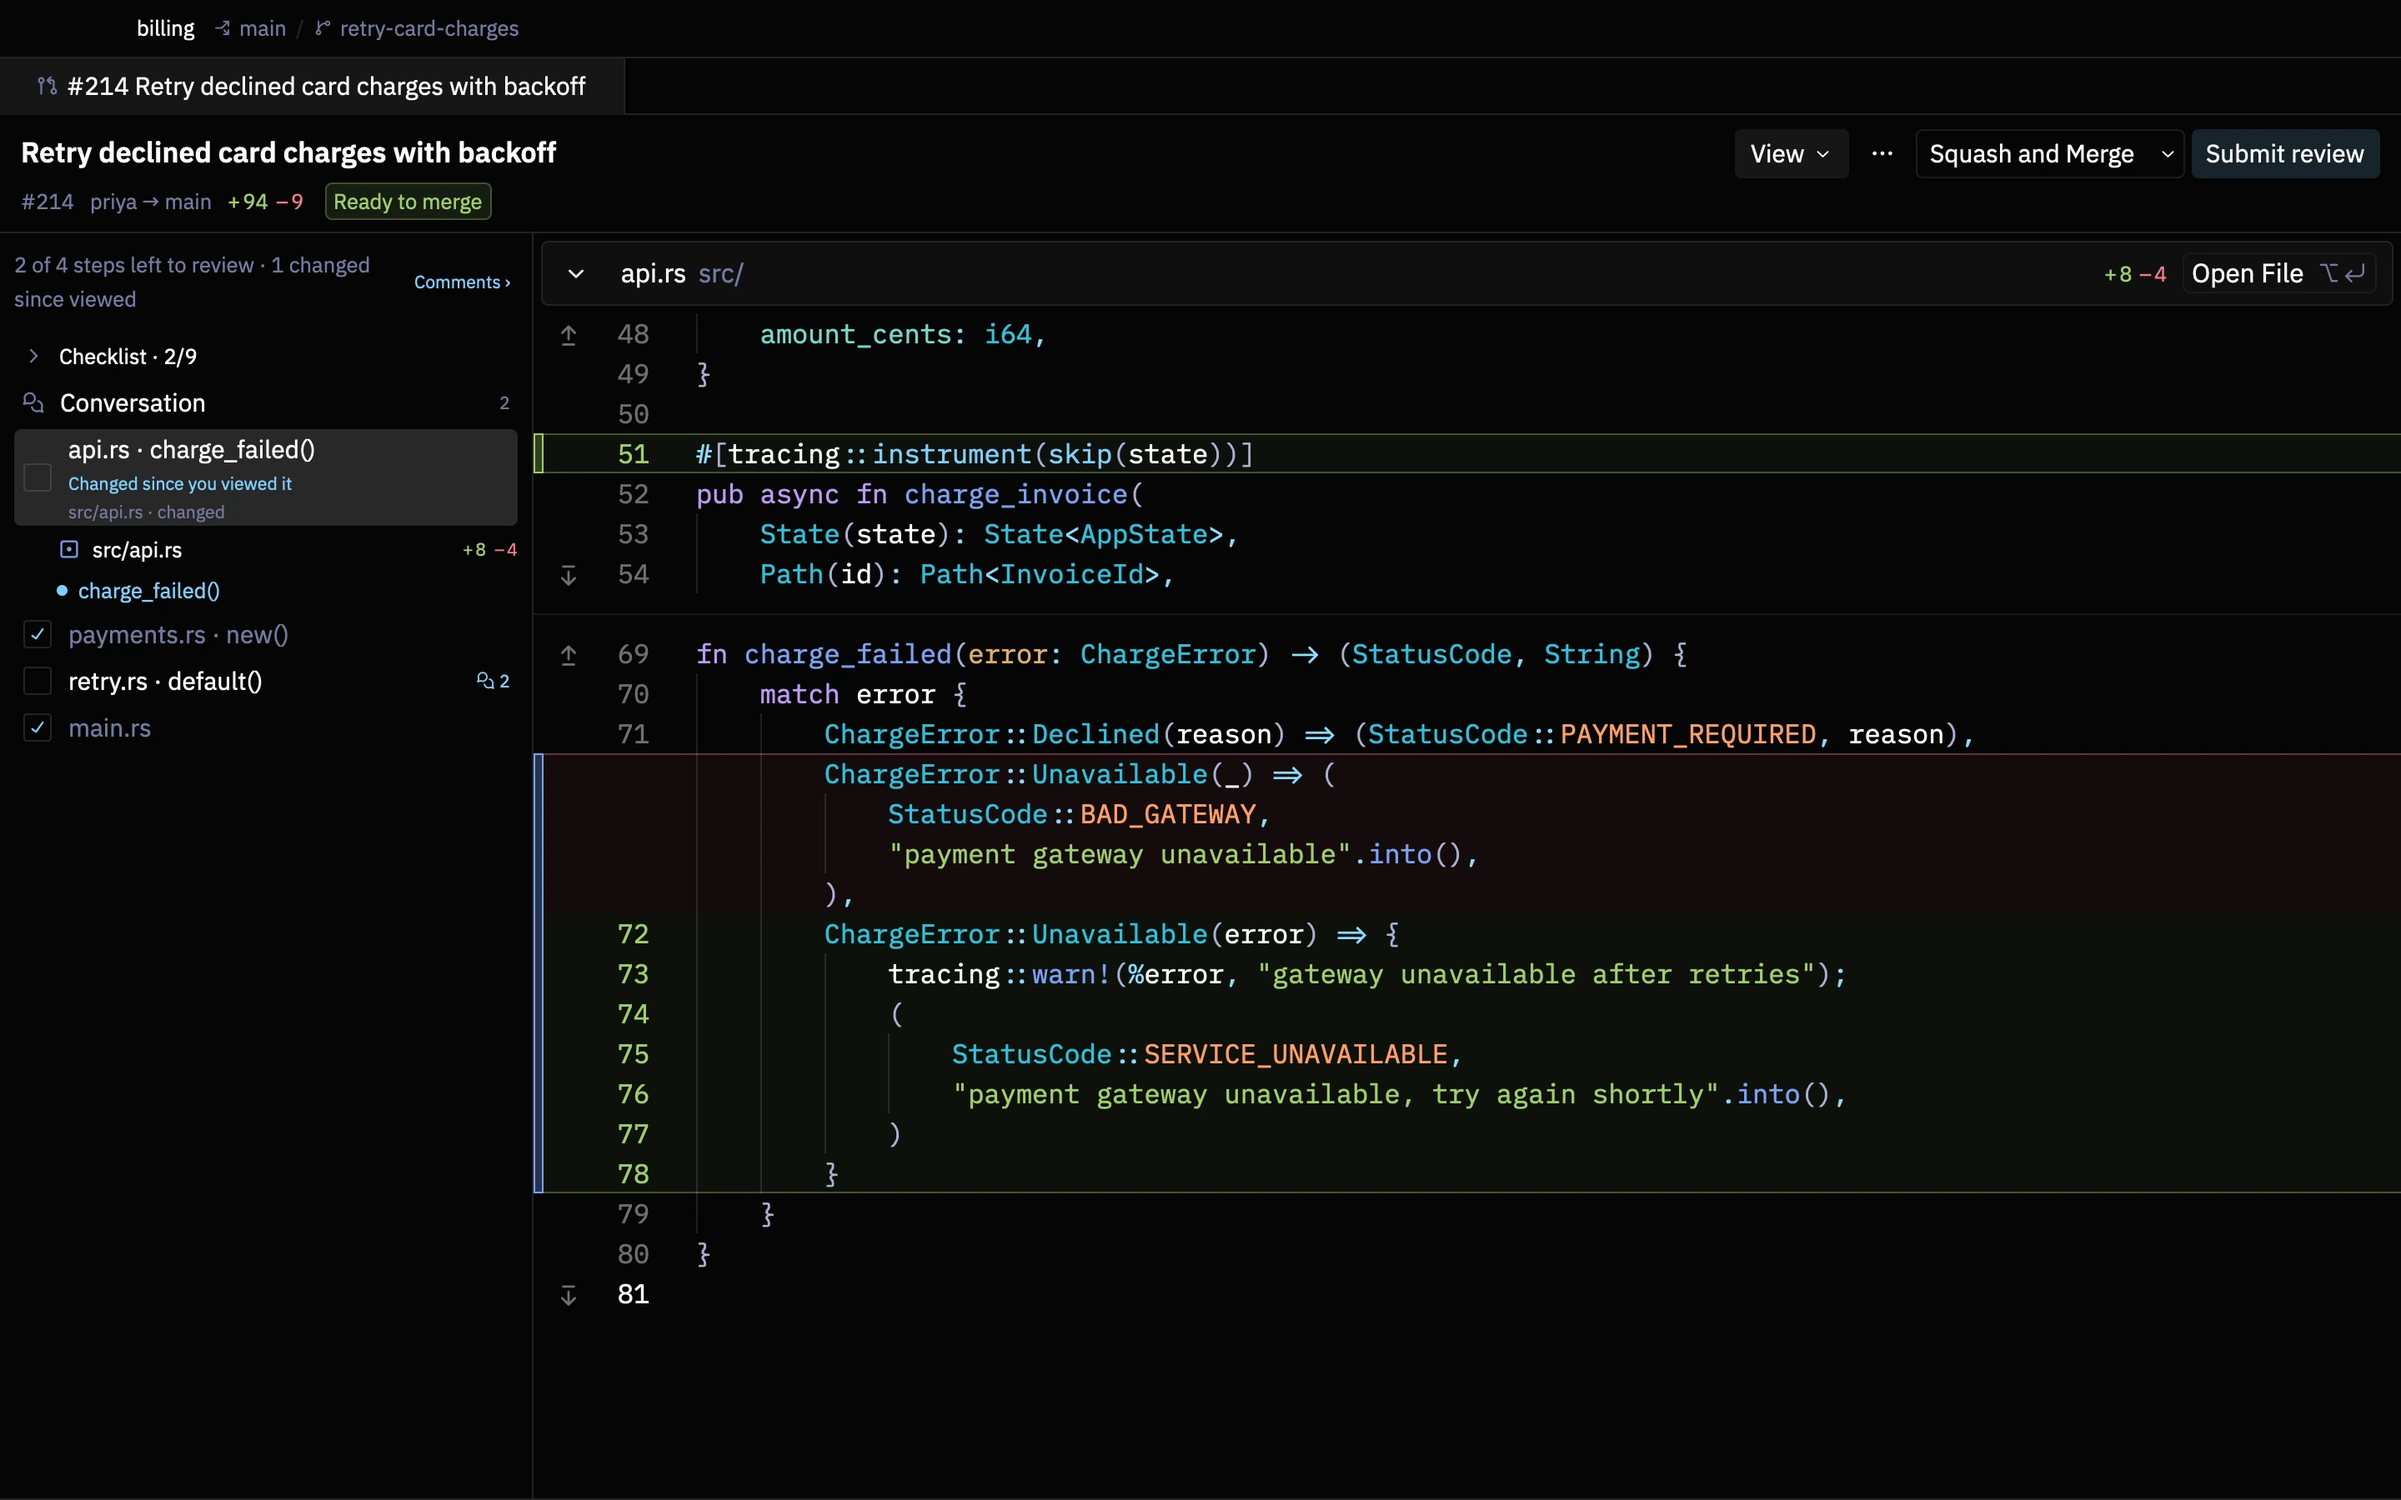
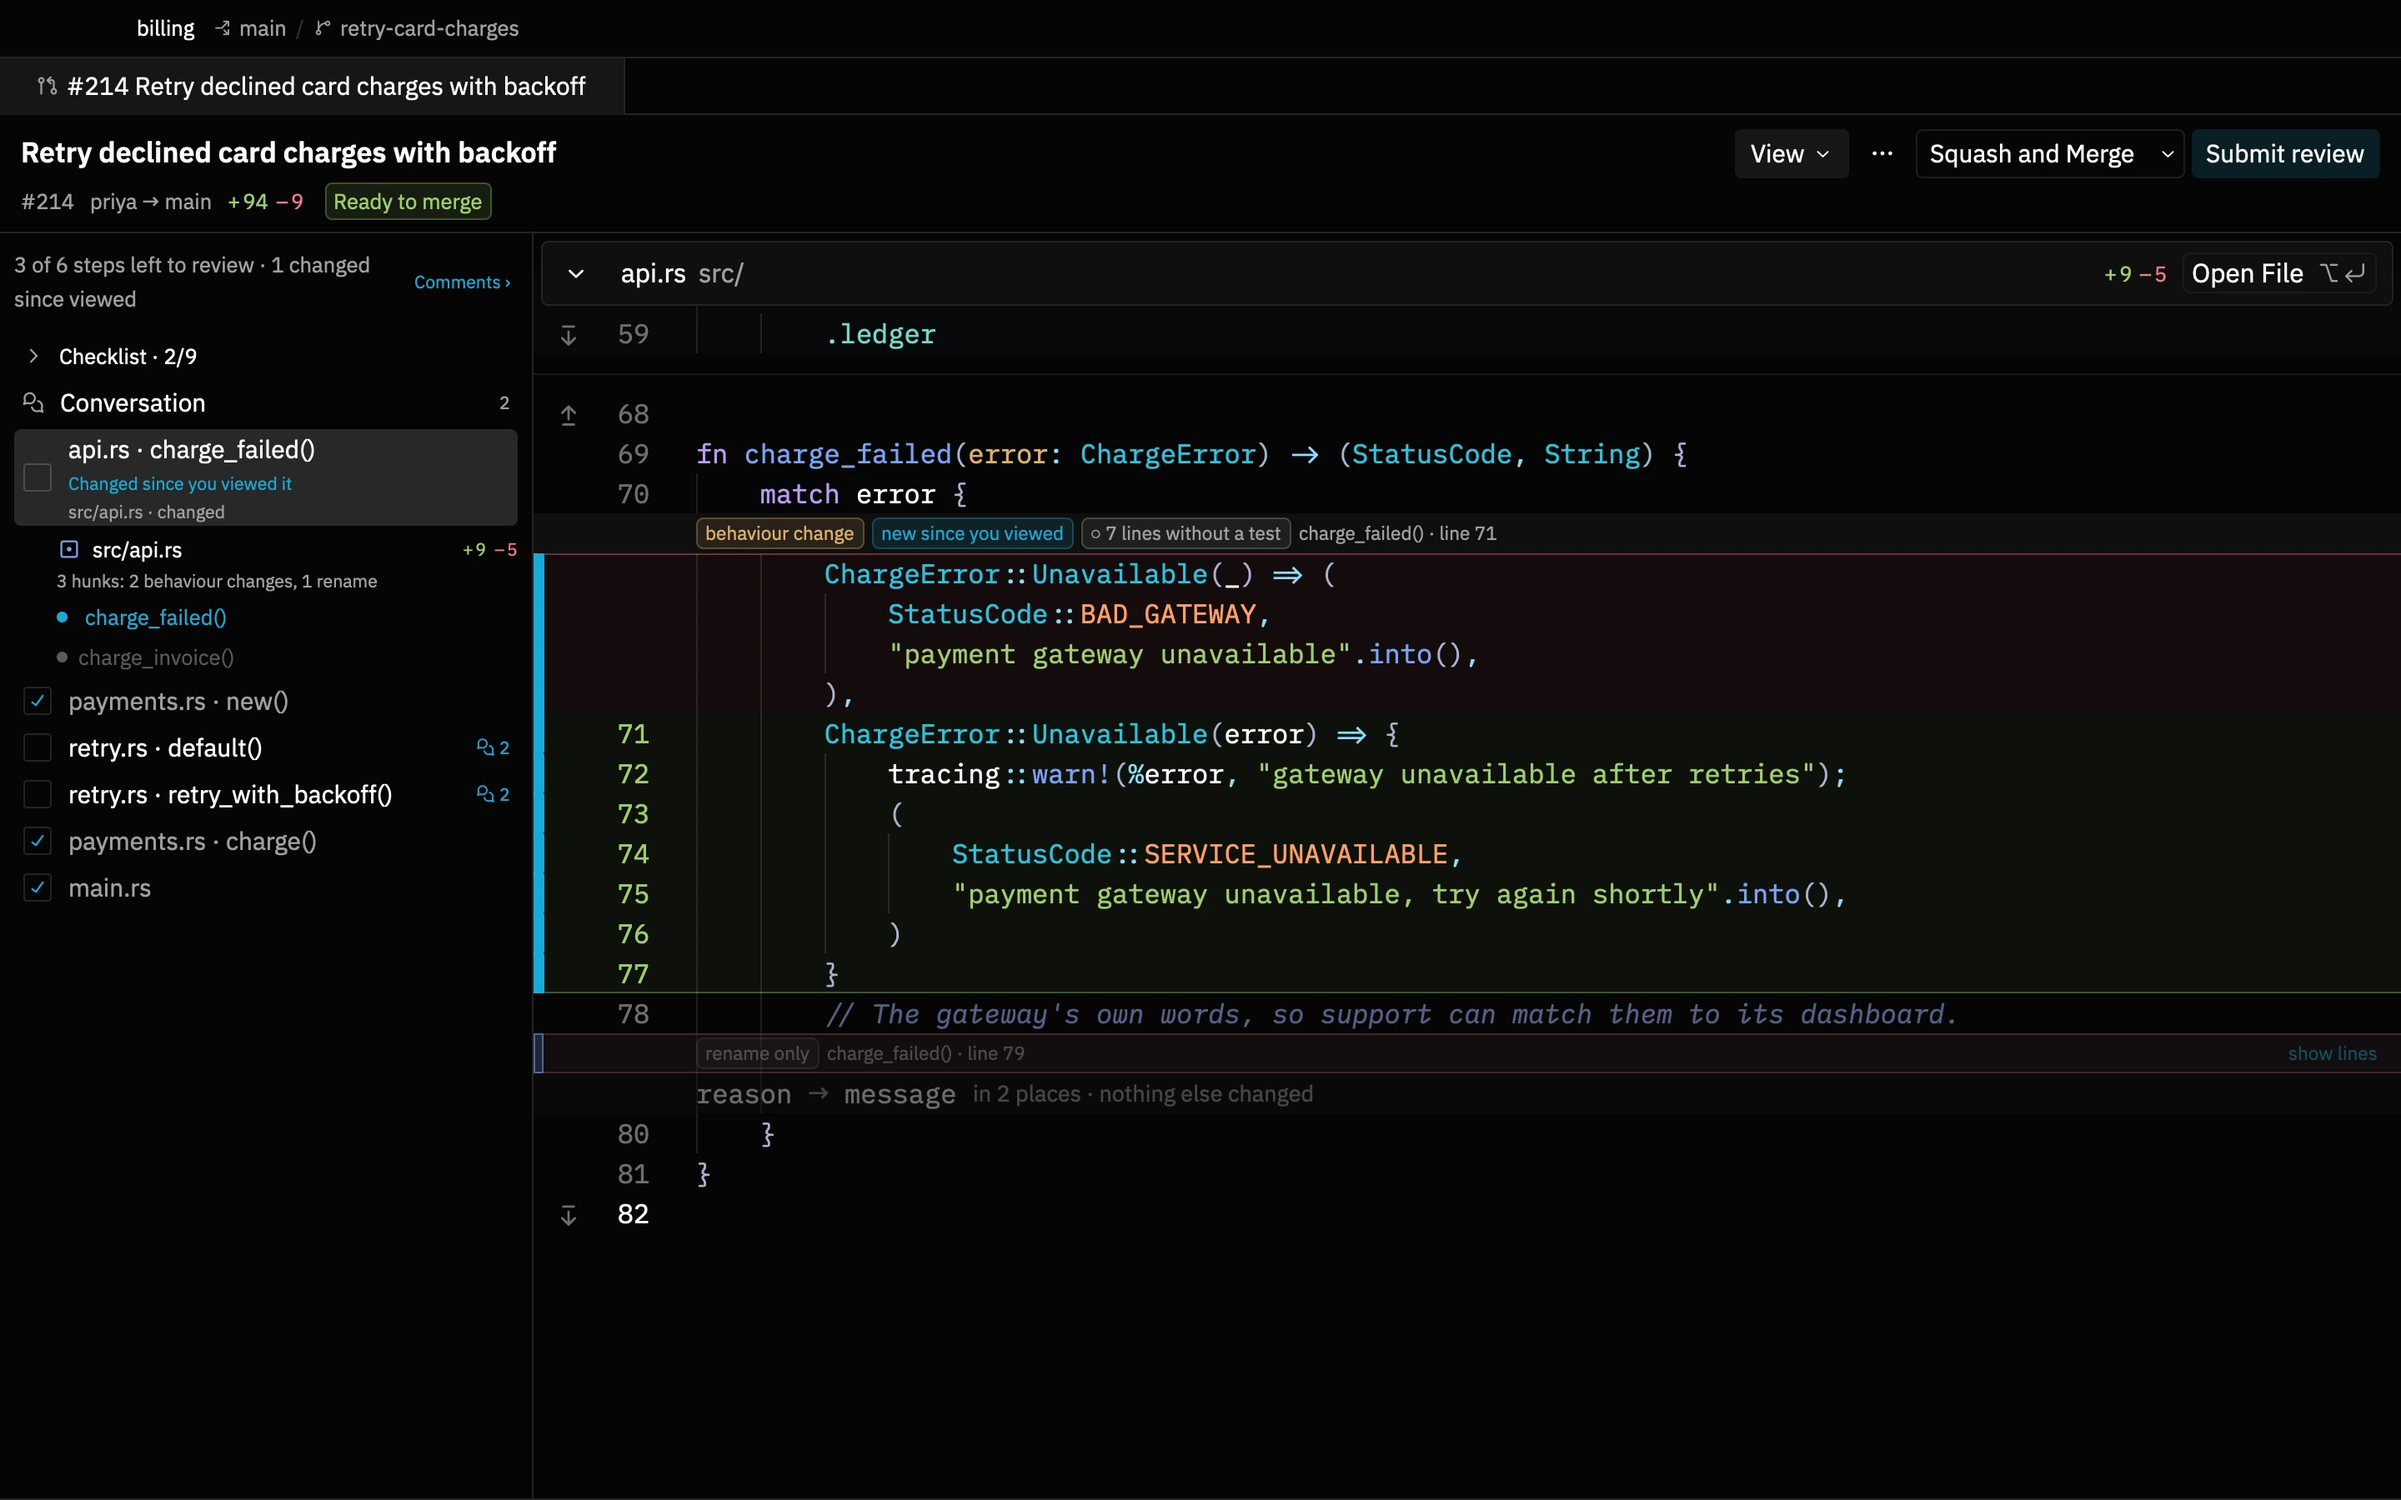
Site: review close-ups with meaning chips, a folded rename and a test mark
The fixture's first push renames a variable in api.rs that the second
push leaves alone, the reviewer viewed changed files at the first push,
and the retry test is in the call graph.

diff --git a/docs/photon/site/index.html b/docs/photon/site/index.html
@@ -195,7 +195,7 @@
   </div>
   <figure class="showcase wrap"><div class="glow"></div><picture>
     <source type="image/webp" srcset="img/app/cu-review-steps-1x.webp 1440w, img/app/cu-review-steps.webp 2880w" sizes="(min-width: 1320px) 1240px, 94vw">
-    <img src="img/app/cu-review-steps-1x.webp" width="1440" height="750" loading="lazy" alt="The steps of a pull request with progress, comment counts and a step changed since it was viewed, beside the diff and the Ready to merge pill.">
+    <img src="img/app/cu-review-steps-1x.webp" width="1440" height="750" loading="lazy" alt="The steps of a pull request beside a diff whose hunks say what they mean: a behaviour change that's new since you viewed it and has no test, and a rename you already reviewed, folded to one line.">
   </picture><figcaption>Steps in reading order, viewed marks that belong to the push you reviewed, and Ready to merge in the header.</figcaption></figure>
   <figure class="showcase wrap"><div class="glow"></div><picture>
     <source type="image/webp" srcset="img/app/cu-review-comments-view-1x.webp 1440w, img/app/cu-review-comments-view.webp 2880w" sizes="(min-width: 1320px) 1240px, 94vw">

diff --git a/crates/zed/src/photon_screenshots/fixture.rs b/crates/zed/src/photon_screenshots/fixture.rs
@@ -335,11 +335,12 @@ pub async fn charge_invoice(
 
 fn charge_failed(error: ChargeError) -> (StatusCode, String) {
     match error {
-        ChargeError::Declined(reason) => (StatusCode::PAYMENT_REQUIRED, reason),
         ChargeError::Unavailable(_) => (
             StatusCode::BAD_GATEWAY,
             "payment gateway unavailable".into(),
         ),
+        // The gateway's own words, so support can match them to its dashboard.
+        ChargeError::Declined(reason) => (StatusCode::PAYMENT_REQUIRED, reason),
     }
 }
 
@@ -422,7 +423,6 @@ pub async fn charge_invoice(
 
 fn charge_failed(error: ChargeError) -> (StatusCode, String) {
     match error {
-        ChargeError::Declined(reason) => (StatusCode::PAYMENT_REQUIRED, reason),
         ChargeError::Unavailable(error) => {
             tracing::warn!(%error, "gateway unavailable after retries");
             (
@@ -430,6 +430,8 @@ fn charge_failed(error: ChargeError) -> (StatusCode, String) {
                 "payment gateway unavailable, try again shortly".into(),
             )
         }
+        // The gateway's own words, so support can match them to its dashboard.
+        ChargeError::Declined(message) => (StatusCode::PAYMENT_REQUIRED, message),
     }
 }
 
@@ -913,12 +915,20 @@ pub fn base_files() -> Vec<(&'static str, &'static str)> {
     ]
 }
 
-/// The pull request's first push, then its second.
-pub fn first_push() -> Vec<(&'static str, &'static str)> {
+/// The pull request's first push, then its second. The first renames a variable in `api.rs`,
+/// which the second push then changes elsewhere.
+pub fn first_push() -> Vec<(&'static str, String)> {
     vec![
-        ("src/main.rs", MAIN_RS),
-        ("src/payments.rs", PAYMENTS_RS_HEAD),
-        ("src/retry.rs", RETRY_RS_FIRST),
+        ("src/main.rs", MAIN_RS.to_string()),
+        ("src/payments.rs", PAYMENTS_RS_HEAD.to_string()),
+        ("src/retry.rs", RETRY_RS_FIRST.to_string()),
+        (
+            "src/api.rs",
+            API_RS_BASE.replace(
+                "Declined(reason) => (StatusCode::PAYMENT_REQUIRED, reason)",
+                "Declined(message) => (StatusCode::PAYMENT_REQUIRED, message)",
+            ),
+        ),
     ]
 }
 
@@ -943,6 +953,7 @@ pub const FUNCTIONS: &[(&str, &str)] = &[
     ("retry_failed_invoices", "src/jobs.rs"),
     ("main", "src/main.rs"),
     ("retries_gateway_timeouts", "src/jobs.rs"),
+    ("delays_double_up_to_the_cap", "src/retry.rs"),
 ];
 
 pub const CALLS: &[(&str, &str)] = &[
@@ -961,6 +972,7 @@ pub const CALLS: &[(&str, &str)] = &[
     ("charge", "is_retryable"),
     ("retry_with_backoff", "delay"),
     ("retries_gateway_timeouts", "charge"),
+    ("delays_double_up_to_the_cap", "delay"),
 ];
 
 /// An untracked file in the `git status` close-up.

diff --git a/crates/zed/src/photon_screenshots.rs b/crates/zed/src/photon_screenshots.rs
@@ -205,7 +205,7 @@ mod mac {
                 1,
             )?;
             git(&root, &["checkout", "--quiet", "-b", BRANCH], None)?;
-            write_files(&root, &owned(fixture::first_push()))?;
+            write_files(&root, &fixture::first_push())?;
             let first_sha = commit(&root, AUTHOR, "Retry card charges with backoff", 2)?;
             write_files(&root, &owned(fixture::second_push()))?;
             let head_sha = commit(
@@ -1511,6 +1511,16 @@ mod mac {
                 files.push(self.block(load)?);
             }
             let database = self.block(ReviewDb::open_test_db(unique_name("review")));
+            // Files changed since they were viewed were viewed here at the first push.
+            for (path, state) in viewed {
+                if *state == "DISMISSED" {
+                    self.block(database.set_file_viewed_head(
+                        pr_key(),
+                        path.to_string(),
+                        Some(self.repo.first_sha.clone()),
+                    ))?;
+                }
+            }
             let checkout = Checkout {
                 repo_dir: root.clone(),
                 worktree: root.clone(),
@@ -1690,6 +1700,11 @@ mod mac {
             ];
             let (win, item) = self.open_review_sized(&api_changed, WIDTH, HEIGHT)?;
             self.select_step_with(&win, &item, "src/api.rs")?;
+            // The call graph, which the test marks come from, takes the fake server a while.
+            for _ in 0..10 {
+                self.settle();
+            }
+            self.scroll_review(&win, &item, 13.)?;
             self.blur(&win)?;
             self.shoot_crops(&win, None, &[("cu-review-steps", &[whole])])?;
             self.click(&win, "photon-review-view")?;
